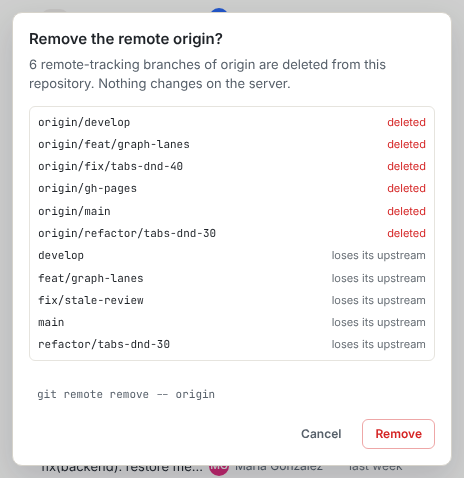
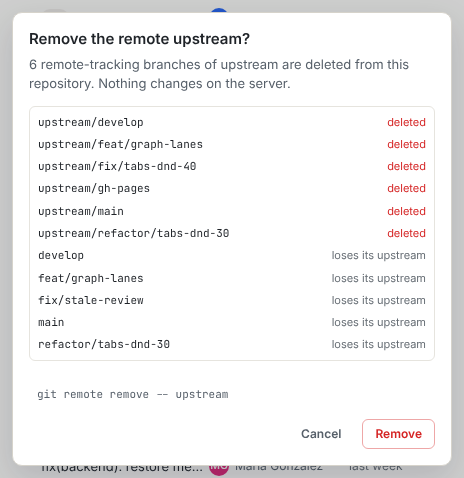
docs(website): fact-check repository, customization, reference and help pages
Claude-Session: https://claude.ai/code/session_01V1i14To8BKiPDU9DUqr9cU

diff --git a/e2e/docs-screenshots/remotes-inspect.spec.ts b/e2e/docs-screenshots/remotes-inspect.spec.ts
@@ -74,6 +74,15 @@ async function commitFileAction(page: Page, path: RegExp, action: RegExp) {
   await page.getByRole('menuitem', { name: action }).click();
 }
 
+async function addRemote(page: Page, name: string, url: string) {
+  await palette(page, 'Add a remote');
+  const dialog = page.getByRole('dialog', { name: 'Add a remote' });
+  await dialog.getByLabel('Name').fill(name);
+  await dialog.getByLabel('Fetch URL').fill(url);
+  await dialog.getByRole('button', { name: 'Add', exact: true }).click();
+  await expect(page.getByText(`Remote ${name} added`, { exact: true })).toBeVisible();
+}
+
 async function openReflog(page: Page) {
   await openYaggui(page);
   await palette(page, 'reflog');
@@ -101,11 +110,14 @@ test('pull-strategy-menu', async ({ page }, testInfo) => {
 });
 
 test('force-push-confirm', async ({ page }, testInfo) => {
-  await openYaggui(page);
+  // `blog` is behind origin/main: overwriting it drops commits, which the dialog lists. `main`
+  // is protected by default (force push refused): empty the list, as the preference allows.
+  await start(page, '(mock) => mock.seedPreferences({ protectedBranches: [] })');
+  await openRepo(page, /^blog\b/);
   await toolbar(page).getByRole('button', { name: 'Push options' }).click();
   await page.getByRole('menuitem', { name: /Force push/ }).click();
   const dialog = page.getByRole('alertdialog').or(page.getByRole('dialog'));
-  await expect(dialog).toContainText('Overwrite origin/feat/graph-lanes?');
+  await expect(dialog).toContainText('Overwrite origin/main?');
   await expect(dialog).toContainText('--force-with-lease');
   await capture(page, testInfo, 'force-push-confirm', dialog);
 });
@@ -118,13 +130,16 @@ test('network-progress', async ({ page }, testInfo) => {
   await expect(status).toContainText('Receiving objects', { timeout: 15_000 });
   await expect(status).toContainText('/s');
   await captureUnion(page, testInfo, 'network-progress', [footer, status], (edges) => ({
+    // Status bar only: no margin above it, where the graph rows are.
     ...edges,
+    top: edges.top + 12,
     right: Math.min(edges.right, edges.left + 720),
   }));
 });
 
 test('remotes-manage', async ({ page }, testInfo) => {
   await openYaggui(page);
+  await addRemote(page, 'upstream', 'https://github.com/yaggui/yaggui.git');
   await palette(page, 'Manage remotes');
   const dialog = page.getByRole('dialog', { name: 'Remotes' });
   await expect(dialog.getByRole('list', { name: 'Remotes' })).toContainText('origin');
@@ -149,14 +164,21 @@ test('remote-add-dialog', async ({ page }, testInfo) => {
 
 test('remote-remove-confirm', async ({ page }, testInfo) => {
   await openYaggui(page);
-  await tree(page)
-    .getByRole('treeitem', { name: /^origin\b/ })
-    .first()
-    .click({ button: 'right' });
+  // The page shows `upstream` with tracking branches: rename `origin`, which has them.
+  const folder = (name: string) =>
+    tree(page)
+      .getByRole('treeitem', { name: new RegExp(`^${name}\\b`) })
+      .first();
+  await folder('origin').click({ button: 'right' });
+  await page.getByRole('menuitem', { name: 'Edit the remote…' }).click();
+  await page.getByRole('dialog').getByLabel('Name').fill('upstream');
+  await page.getByRole('dialog').getByRole('button', { name: 'Save' }).click();
+  await expect(page.getByText('Remote origin renamed to upstream', { exact: true })).toBeVisible();
+  await folder('upstream').click({ button: 'right' });
   await page.getByRole('menuitem', { name: 'Remove the remote…' }).click();
   const confirm = page.getByRole('alertdialog').or(page.getByRole('dialog'));
-  await expect(confirm).toContainText('Remove the remote origin?');
-  await expect(confirm).toContainText('git remote remove -- origin');
+  await expect(confirm).toContainText('Remove the remote upstream?');
+  await expect(confirm).toContainText('git remote remove -- upstream');
   await capture(page, testInfo, 'remote-remove-confirm', confirm);
 });
 

diff --git a/e2e/docs-screenshots/everyday.spec.ts b/e2e/docs-screenshots/everyday.spec.ts
@@ -1,6 +1,7 @@
 import { expect, test, type Locator, type Page } from '@playwright/test';
 
 import { capture, MOCK_NOW_MS, openRepo, start } from './capture';
+import { around } from './crop';
 
 /** Screenshots of the "Everyday work" pages: staging, committing, stash, diff. */
 
@@ -35,37 +36,6 @@ async function widenRightPanel(page: Page, steps: number) {
 /** The status bar sits right under the changes panel: hidden so a crop does not cut its text. */
 async function hideStatusBar(page: Page) {
   await page.addStyleTag({ content: 'footer { visibility: hidden; }' });
-}
-
-/**
- * An invisible box laid over the union of `parts`, to crop several elements that share no
- * container (a popover and the toolbar button it opens from).
- */
-async function around(page: Page, parts: Locator[]): Promise<Locator> {
-  const boxes = await Promise.all(parts.map((part) => part.boundingBox()));
-  const visible = boxes.filter((box) => box !== null);
-  if (visible.length !== parts.length) throw new Error('crop part not visible');
-  const left = Math.min(...visible.map((box) => box.x));
-  const top = Math.min(...visible.map((box) => box.y));
-  const right = Math.max(...visible.map((box) => box.x + box.width));
-  const bottom = Math.max(...visible.map((box) => box.y + box.height));
-  await page.evaluate(
-    ({ left, top, width, height }) => {
-      const box = document.createElement('div');
-      box.id = 'docs-crop';
-      Object.assign(box.style, {
-        position: 'fixed',
-        left: `${left}px`,
-        top: `${top}px`,
-        width: `${width}px`,
-        height: `${height}px`,
-        pointerEvents: 'none',
-      });
-      document.body.append(box);
-    },
-    { left, top, width: right - left, height: bottom - top },
-  );
-  return page.locator('#docs-crop');
 }
 
 async function openYaggui(page: Page) {

diff --git a/e2e/docs-screenshots/crop.ts b/e2e/docs-screenshots/crop.ts
@@ -1,0 +1,32 @@
+import type { Locator, Page } from '@playwright/test';
+
+/**
+ * An invisible box laid over the union of `parts`, to crop several elements that share no
+ * container (a popover and the toolbar button it opens from).
+ */
+export async function around(page: Page, parts: Locator[]): Promise<Locator> {
+  const boxes = await Promise.all(parts.map((part) => part.boundingBox()));
+  const visible = boxes.filter((box) => box !== null);
+  if (visible.length !== parts.length) throw new Error('crop part not visible');
+  const left = Math.min(...visible.map((box) => box.x));
+  const top = Math.min(...visible.map((box) => box.y));
+  const right = Math.max(...visible.map((box) => box.x + box.width));
+  const bottom = Math.max(...visible.map((box) => box.y + box.height));
+  await page.evaluate(
+    ({ left, top, width, height }) => {
+      const box = document.createElement('div');
+      box.id = 'docs-crop';
+      Object.assign(box.style, {
+        position: 'fixed',
+        left: `${left}px`,
+        top: `${top}px`,
+        width: `${width}px`,
+        height: `${height}px`,
+        pointerEvents: 'none',
+      });
+      document.body.append(box);
+    },
+    { left, top, width: right - left, height: bottom - top },
+  );
+  return page.locator('#docs-crop');
+}

diff --git a/e2e/docs-screenshots/start-here.spec.ts b/e2e/docs-screenshots/start-here.spec.ts
@@ -1,6 +1,7 @@
 import { expect, test, type Page } from '@playwright/test';
 
 import { capture, openRepo, start } from './capture';
+import { around } from './crop';
 
 /** Screenshots of the "Start here" pages: introduction, tour, open a repository, updates. */
 
@@ -137,7 +138,13 @@ test('tour-command-log', async ({ page }, testInfo) => {
   await log.getByRole('button', { name: /git commit -F -/ }).click();
   await expect(log).toContainText('3 files changed, 142 insertions(+)');
   await page.mouse.move(640, 10);
-  await capture(page, testInfo, 'tour-command-log', log);
+  // With the status bar under it, where its Log button is.
+  await capture(
+    page,
+    testInfo,
+    'tour-command-log',
+    await around(page, [log, page.locator('footer')]),
+  );
 });
 
 test('tour-error-toast', async ({ page }, testInfo) => {
